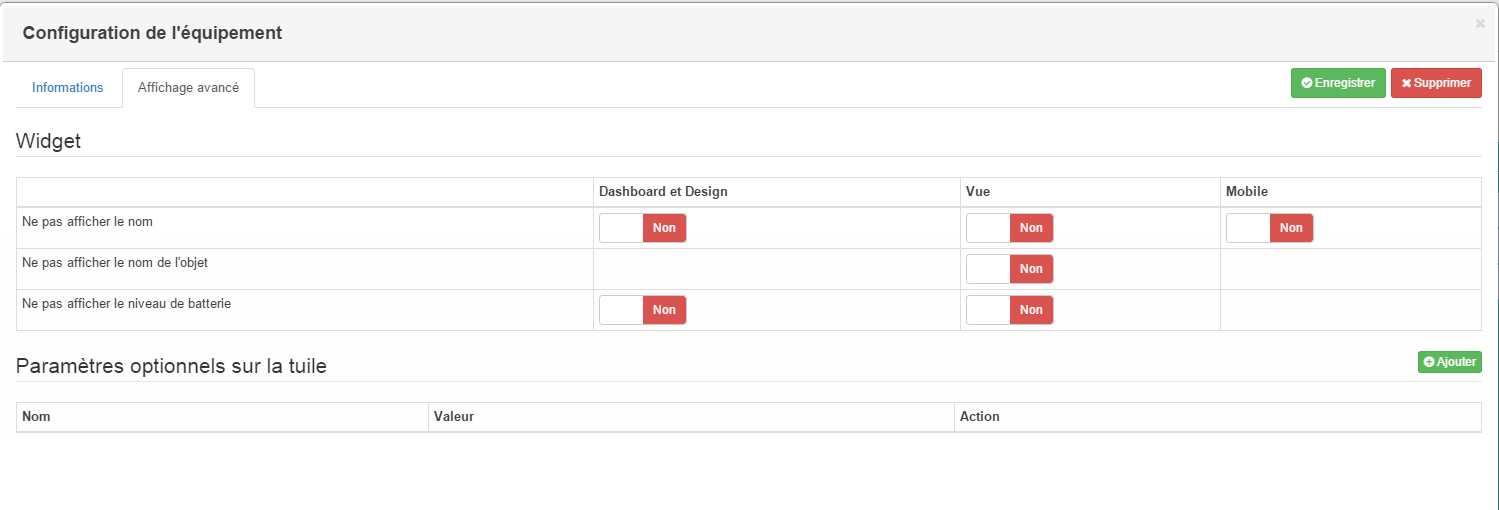
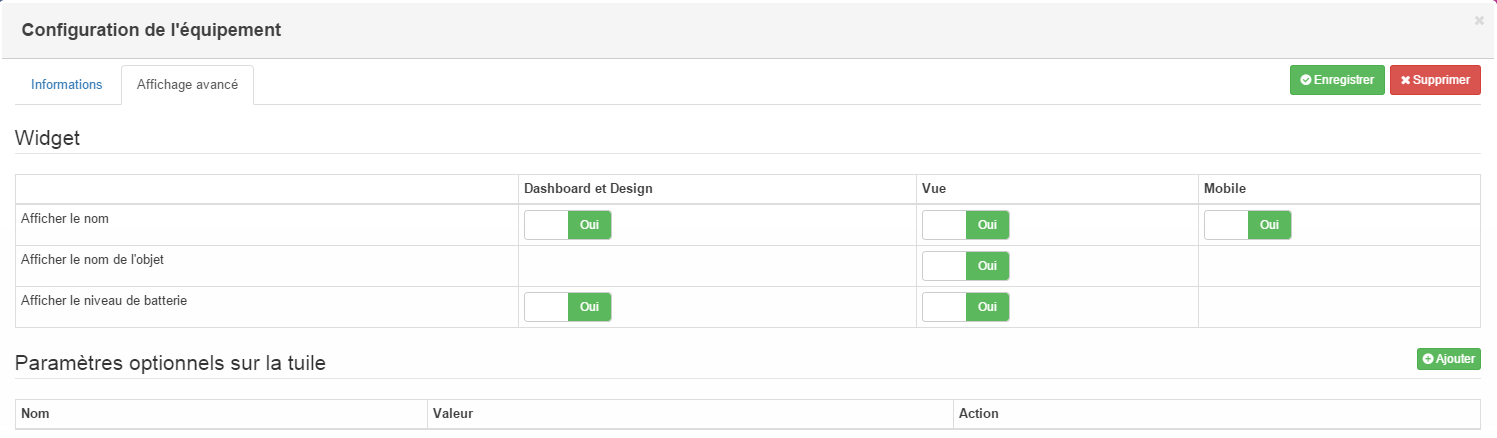
Update doc

diff --git a/desktop/modal/eqLogic.configure.php b/desktop/modal/eqLogic.configure.php
@@ -123,21 +123,21 @@ sendVarToJS('eqLogicInfo', utils::o2a($eqLogic));
         </thead>
         <tbody>
          <tr>
-            <td>{{Ne pas afficher le nom}}</td>
-            <td><input type="checkbox" data-size="small" class="eqLogicAttr bootstrapSwitch" data-l1key="display" data-l2key="doNotShowNameOnDashboard" /></td>
-            <td><input type="checkbox" data-size="small" class="eqLogicAttr bootstrapSwitch" data-l1key="display" data-l2key="doNotShowNameOnView" /></td>
-            <td><input type="checkbox" data-size="small" class="eqLogicAttr bootstrapSwitch" data-l1key="display" data-l2key="doNotShowNameOnMobile" /></td>
+            <td>{{Afficher le nom}}</td>
+            <td><input type="checkbox" data-on-color="danger" data-off-color="success" data-off-text="Oui" data-on-text="Non" data-size="small" class="eqLogicAttr bootstrapSwitch" data-l1key="display" data-l2key="doNotShowNameOnDashboard" /></td>
+            <td><input type="checkbox" data-on-color="danger" data-off-color="success" data-off-text="Oui" data-on-text="Non" data-size="small" class="eqLogicAttr bootstrapSwitch" data-l1key="display" data-l2key="doNotShowNameOnView" /></td>
+            <td><input type="checkbox" data-on-color="danger" data-off-color="success" data-off-text="Oui" data-on-text="Non" data-size="small" class="eqLogicAttr bootstrapSwitch" data-l1key="display" data-l2key="doNotShowNameOnMobile" /></td>
         </tr>
         <tr>
-            <td>{{Ne pas afficher le nom de l'objet}}</td>
+            <td>{{Afficher le nom de l'objet}}</td>
             <td></td>
-            <td><input type="checkbox" data-size="small" class="eqLogicAttr bootstrapSwitch" data-l1key="display" data-l2key="doNotShowObjectNameOnView" /></td>
+            <td><input type="checkbox" data-on-color="danger" data-off-color="success" data-off-text="Oui" data-on-text="Non" data-size="small" class="eqLogicAttr bootstrapSwitch" data-l1key="display" data-l2key="doNotShowObjectNameOnView" /></td>
             <td></td>
         </tr>
         <tr>
-            <td>{{Ne pas afficher le niveau de batterie}}</td>
-            <td><input type="checkbox" data-size="small" class="eqLogicAttr bootstrapSwitch" data-l1key="display" data-l2key="doNotDisplayBatteryLevelOnDashboard" /></td>
-            <td><input type="checkbox" data-size="small" class="eqLogicAttr bootstrapSwitch" data-l1key="display" data-l2key="doNotDisplayBatteryLevelOnView" /></td>
+            <td>{{Afficher le niveau de batterie}}</td>
+            <td><input type="checkbox" data-on-color="danger" data-off-color="success" data-off-text="Oui" data-on-text="Non" data-size="small" class="eqLogicAttr bootstrapSwitch" data-l1key="display" data-l2key="doNotDisplayBatteryLevelOnDashboard" /></td>
+            <td><input type="checkbox" data-on-color="danger" data-off-color="success" data-off-text="Oui" data-on-text="Non" data-size="small" class="eqLogicAttr bootstrapSwitch" data-l1key="display" data-l2key="doNotDisplayBatteryLevelOnView" /></td>
             <td></td>
         </tr>
     </tbody>
